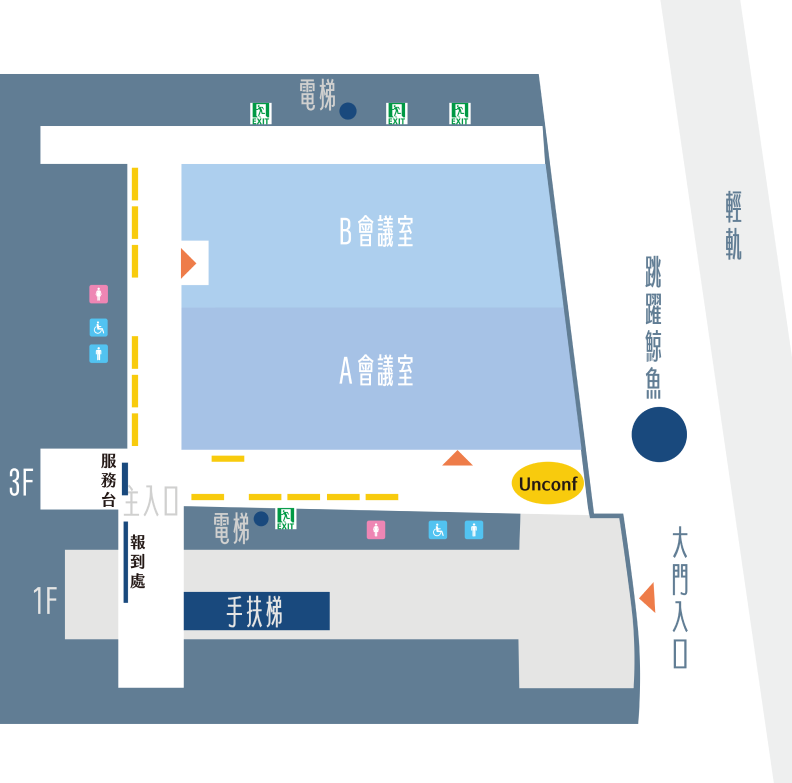
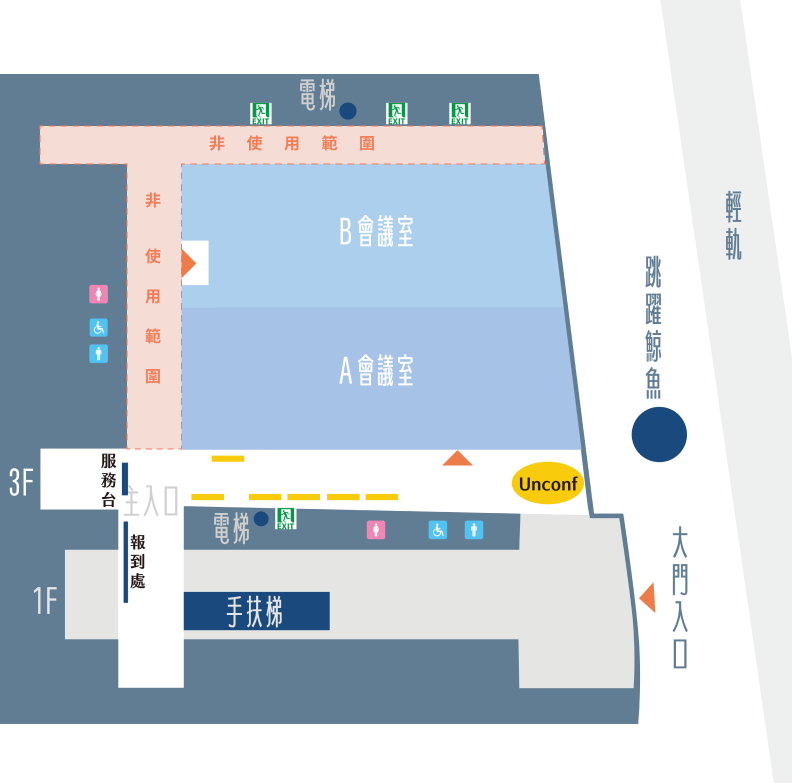
更改會場地圖及講師預設圖

Changed region(s): [[0.0303, 0.1533, 0.697, 0.5824]]

diff --git a/2023-dev/src/page/Home/VenueMap.js b/2023-dev/src/page/Home/VenueMap.js
@@ -11,10 +11,6 @@ const VenueMap = () => {
           src={process.env.PUBLIC_URL + "/assets/images/Home/VenueMap.png"}
           alt="Location"
         />
-        <div className={classes.text}>
-          <h1>COMING SOON</h1>
-          <h2>我們正緊鑼密鼓的規劃中，敬請期待(*‘ v`*)</h2>
-        </div>
       </div>
     </div>
   );

diff --git a/2023-dev/src/page/Home/VenueMap.module.css b/2023-dev/src/page/Home/VenueMap.module.css
@@ -10,15 +10,7 @@
   object-position: center;
   position: relative;
 }
-.location-img img {
-  filter: blur(10px) brightness(50%);
-}
-.text {
-  position: absolute;
-  transform: translate(-50%, -50%);
-  top: 50%;
-  left: 50%;
-}
+
 @media screen and (max-width: 1023px) {
   .location-img,
   .location-img img {
